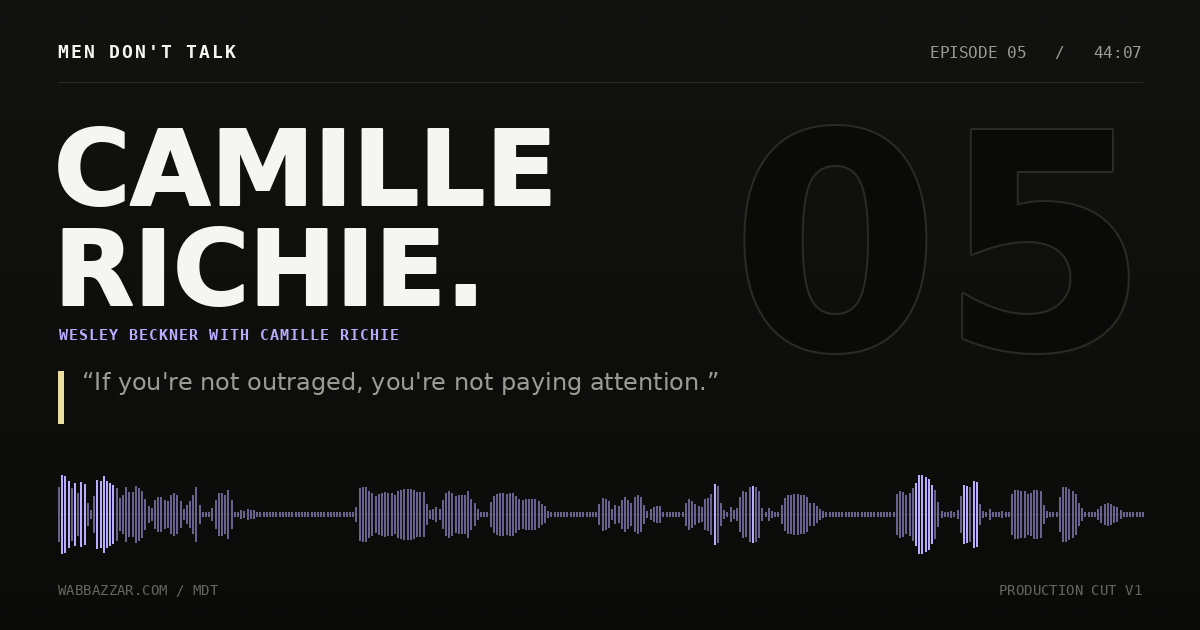
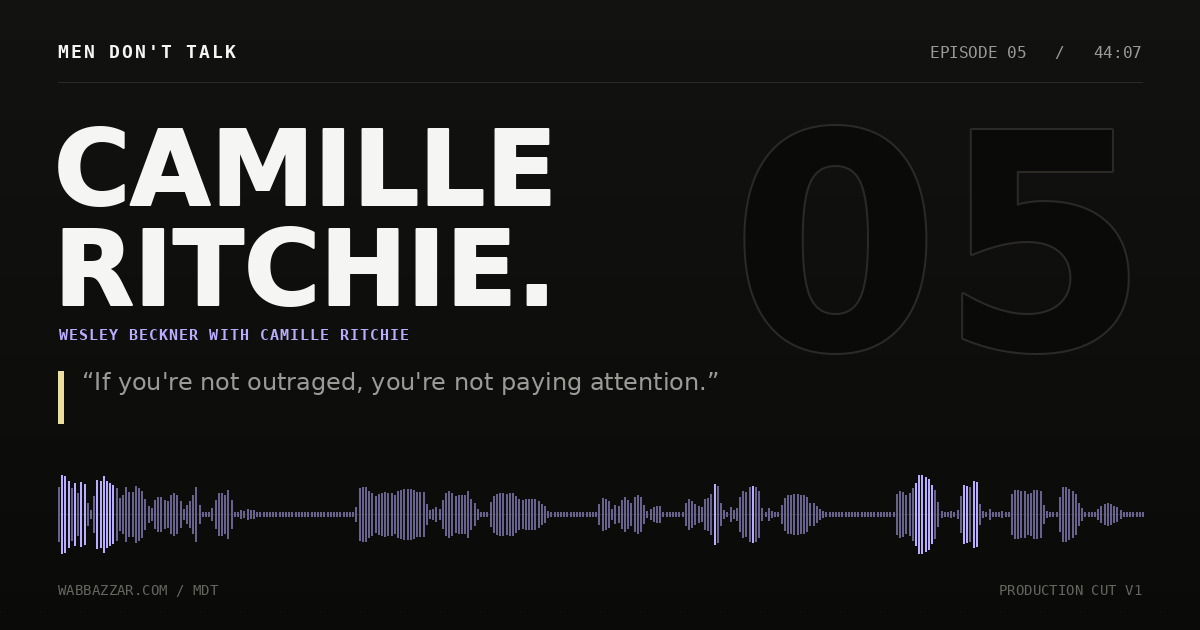
Correct Camille Ritchie's name

Changed region(s): [[0.1233, 0.3619, 0.4625, 0.5127], [0.3083, 0.5127, 0.3392, 0.5429]]

diff --git a/men-dont-talk/episode/05-camille-richie/index.html b/men-dont-talk/episode/05-camille-richie/index.html
@@ -3,20 +3,20 @@
 <head>
     <meta charset="utf-8">
     <meta name="viewport" content="width=device-width, initial-scale=1">
-    <title>Camille Richie — Men Don&#x27;t Talk</title>
+    <title>Camille Ritchie — Men Don&#x27;t Talk</title>
     <meta name="description" content="Lifelong friends on Adelaide, becoming a parent, politics, protest, the itty-bitty fish, and what it means to keep speaking anyway.">
     <link rel="canonical" href="https://wabbazzar.com/men-dont-talk/episode/05-camille-richie/">
     <meta property="og:type" content="article">
     <meta property="og:site_name" content="Men Don't Talk">
     <meta property="og:url" content="https://wabbazzar.com/men-dont-talk/episode/05-camille-richie/">
-    <meta property="og:title" content="Camille Richie — Men Don&#x27;t Talk">
+    <meta property="og:title" content="Camille Ritchie — Men Don&#x27;t Talk">
     <meta property="og:description" content="Lifelong friends on Adelaide, becoming a parent, politics, protest, the itty-bitty fish, and what it means to keep speaking anyway.">
     <meta property="og:image" content="https://wabbazzar.com/men-dont-talk/previews/episode-05-camille-richie.png">
     <meta property="og:image:width" content="1200">
     <meta property="og:image:height" content="630">
-    <meta property="og:image:alt" content="Men Don't Talk episode 05 with Camille Richie">
+    <meta property="og:image:alt" content="Men Don't Talk episode 05 with Camille Ritchie">
     <meta name="twitter:card" content="summary_large_image">
-    <meta name="twitter:title" content="Camille Richie — Men Don&#x27;t Talk">
+    <meta name="twitter:title" content="Camille Ritchie — Men Don&#x27;t Talk">
     <meta name="twitter:description" content="Lifelong friends on Adelaide, becoming a parent, politics, protest, the itty-bitty fish, and what it means to keep speaking anyway.">
     <meta name="twitter:image" content="https://wabbazzar.com/men-dont-talk/previews/episode-05-camille-richie.png">
     <script>window.location.replace("/men-dont-talk/?episode=episode-05-camille-richie#episode-05-camille-richie");</script>
@@ -26,5 +26,5 @@
         a{color:#b9adff}
     </style>
 </head>
-<body><p><a href="/men-dont-talk/#episode-05-camille-richie">Open Camille Richie's episode</a></p></body>
+<body><p><a href="/men-dont-talk/#episode-05-camille-richie">Open Camille Ritchie's episode</a></p></body>
 </html>

diff --git a/men-dont-talk/index.html b/men-dont-talk/index.html
@@ -46,7 +46,7 @@
         <nav class="episode-index" aria-label="Men Don't Talk episodes">
             <p>Episodes</p>
             <a href="#episode-01-tatum"><span>01</span><strong>Wesley Tatum</strong><small>June 10, 2026</small></a>
-            <a href="#episode-05-camille-richie"><span>05</span><strong>Camille Richie</strong><small>August 2026</small></a>
+            <a href="#episode-05-camille-richie"><span>05</span><strong>Camille Ritchie</strong><small>August 2026</small></a>
         </nav>
 
         <article class="episode" id="episode-01-tatum">
@@ -110,9 +110,9 @@
         <article class="episode" id="episode-05-camille-richie">
             <header class="episode-head">
                 <p class="kicker"><span>Episode 05</span><span><span class="kicker-detail">Production cut </span>v1</span><span>44:07</span></p>
-                <h1>Camille<br>Richie.</h1>
+                <h1>Camille<br>Ritchie.</h1>
                 <div class="episode-byline">
-                    <p>Wesley Beckner<br>with Camille Richie</p>
+                    <p>Wesley Beckner<br>with Camille Ritchie</p>
                     <p class="dek">Lifelong friends on Adelaide, becoming a parent, politics, protest, the itty-bitty fish, and what it means to keep speaking anyway.</p>
                 </div>
             </header>

diff --git a/service-worker.js b/service-worker.js
@@ -11,7 +11,7 @@
 //
 // Bump VERSION to invalidate old caches on next activation.
 
-const VERSION = 'v19';
+const VERSION = 'v20';
 const CACHE_STATIC = `wz-static-${VERSION}`;
 const CACHE_RUNTIME = `wz-runtime-${VERSION}`;
 
